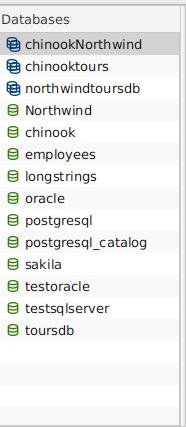
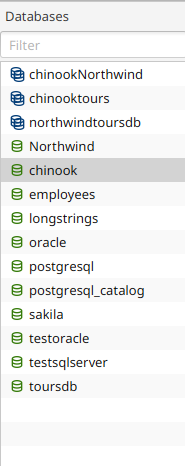
updating the documentation

Changed region(s): [[0.0, 0.0, 1.0, 1.0]]

diff --git a/docs/ForeignKeyPanel.md b/docs/ForeignKeyPanel.md
@@ -28,7 +28,11 @@ the tracks of the album get displayed:
 
 ![Foreign keys to](images/foreignKeysTo.png)
 
-Each foreign key is displayed with specific [tags](Foreignkey-tags) that show the type of foreign key, 
+Each foreign key is displayed with specific [tags](Foreignkey-tags) that show the type of foreign key,
+
+Foreign keys can be **filtered** entering text in the _Filter_ text box on the top. 
+Only the keys containing the filtering text in their name, the name of the connected table 
+or the names of the fields involved in the foreign key will be displayed.
 
 When databases have complex structures loading the foreign keys can be slow.
 To fix this problem try to [preload the foreign keys](Foreign-keys-preloading).

diff --git a/docs/Database-list.md b/docs/Database-list.md
@@ -23,5 +23,9 @@ we need to enter it (or them, for composites) in the password dialog to login.
 
 ![Password Dialog](images/passwordDialog.png)
 
+Databases can be **filtered** entering text in the _Filter_ text box on the top.
+Only the following will be displayed:
+- the databases containing the filtering text in their name.
+- the [composites](Composites.md) containing the filtering text in their name or in the name of their databases.
 
 
